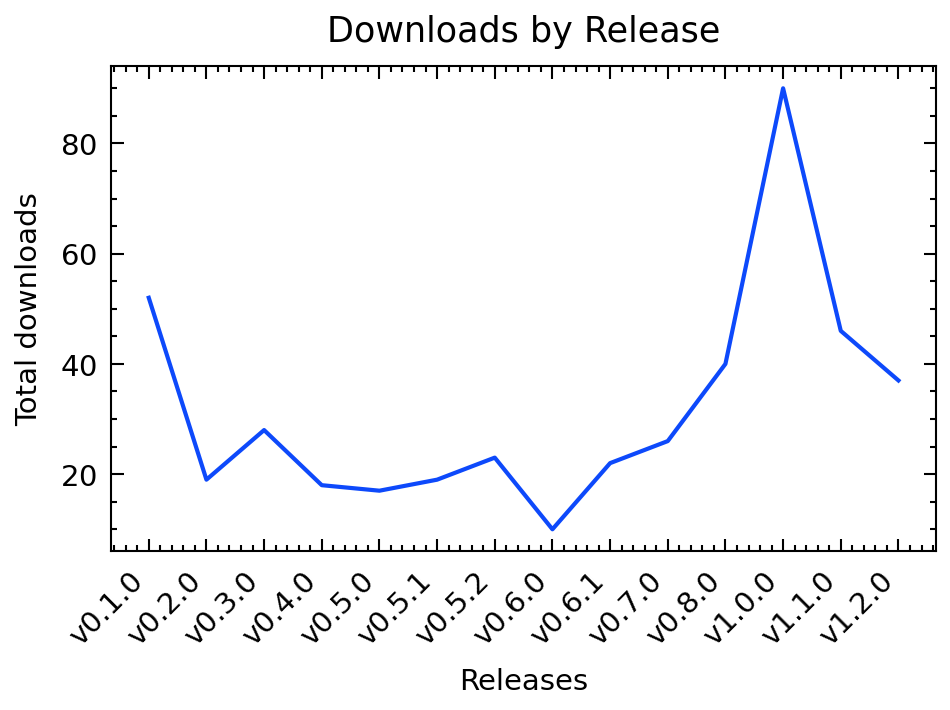
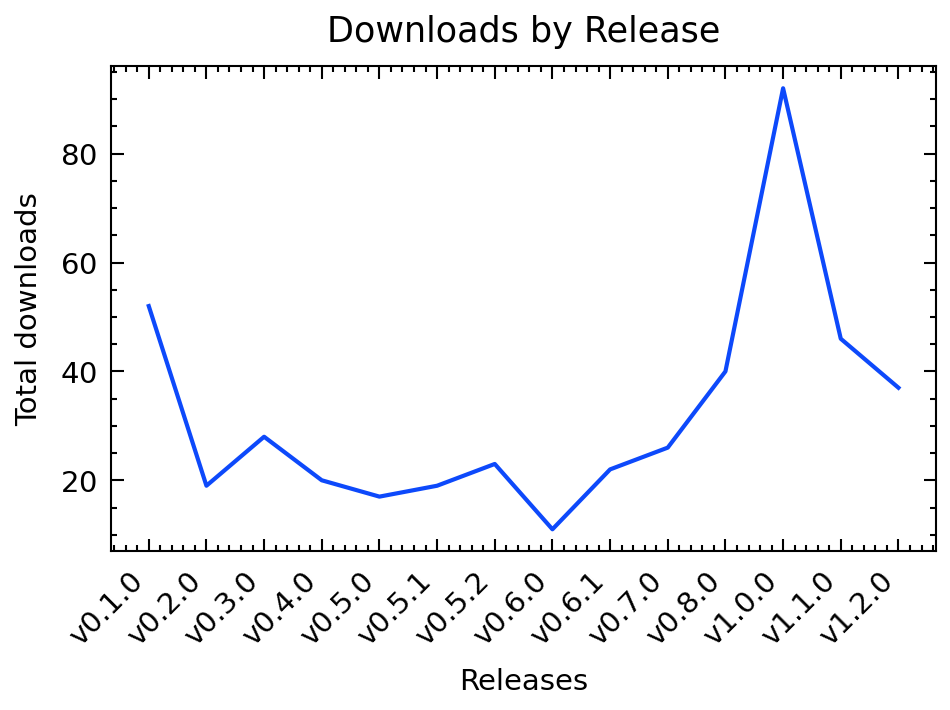
Updated Metrics data

diff --git a/README.md b/README.md
@@ -4,7 +4,7 @@
 SciWIn-Client helps users creating **Computational Workflows** in CWL. Detailed Information about SciWIn-Client can be found in the [GitHub Repository](https://github.com/fairagro/sciwin). The Metrics shown below have been calculated using the GitHub API. Presentation is done via a CWL Workflow and the scripts in this repository.
 
 ## Downloads by Version
-SciWIn-Client currently has about 447 overall downloads across all versions and operating systems. The lastest version v1.2.0 currently has 37 downloads.
+SciWIn-Client currently has about 452 overall downloads across all versions and operating systems. The lastest version v1.2.0 currently has 37 downloads.
 
 
 ![downloads by version](release.png)
@@ -14,22 +14,22 @@ SciWIn-Client currently has about 447 overall downloads across all versions and 
 |---------|-----------|
 | v1.2.0 | 37|
 | v1.1.0 | 46|
-| v1.0.0 | 90|
+| v1.0.0 | 92|
 | v0.8.0 | 40|
 | v0.7.0 | 26|
 | v0.6.1 | 22|
-| v0.6.0 | 10|
+| v0.6.0 | 11|
 | v0.5.2 | 23|
 | v0.5.1 | 19|
 | v0.5.0 | 17|
-| v0.4.0 | 18|
+| v0.4.0 | 20|
 | v0.3.0 | 28|
 | v0.2.0 | 19|
 | v0.1.0 | 52|
 
 
 ## Downloads by Operating System
-SciWIn-Client is used on all major operating systems. There are 219 downloads of the Linux executable, 99 downloads of the Windows executable and 129 downloads of the Mac OS executable.
+SciWIn-Client is used on all major operating systems. There are 221 downloads of the Linux executable, 101 downloads of the Windows executable and 130 downloads of the Mac OS executable.
 
 
 ![downloads by platform](platform.png)
@@ -37,15 +37,15 @@ SciWIn-Client is used on all major operating systems. There are 219 downloads of
 
 | Platform | Downloads |
 |---------|-----------|
-| MacOS (ARM) | 71|
-| Linux (ARM) | 56|
+| MacOS (ARM) | 72|
+| Linux (ARM) | 57|
 | MacOS (x64) | 58|
-| Windows (x64) | 99|
-| Linux (x64) | 163|
+| Windows (x64) | 101|
+| Linux (x64) | 164|
 
 
 ## Historical Download Chart
-The historical download chart can be viewed below. It is shown how the 447 overall downloads progressed over time by using the commited data of this repository.
+The historical download chart can be viewed below. It is shown how the 452 overall downloads progressed over time by using the commited data of this repository.
 
 
 ![downloads by date](history.png)
